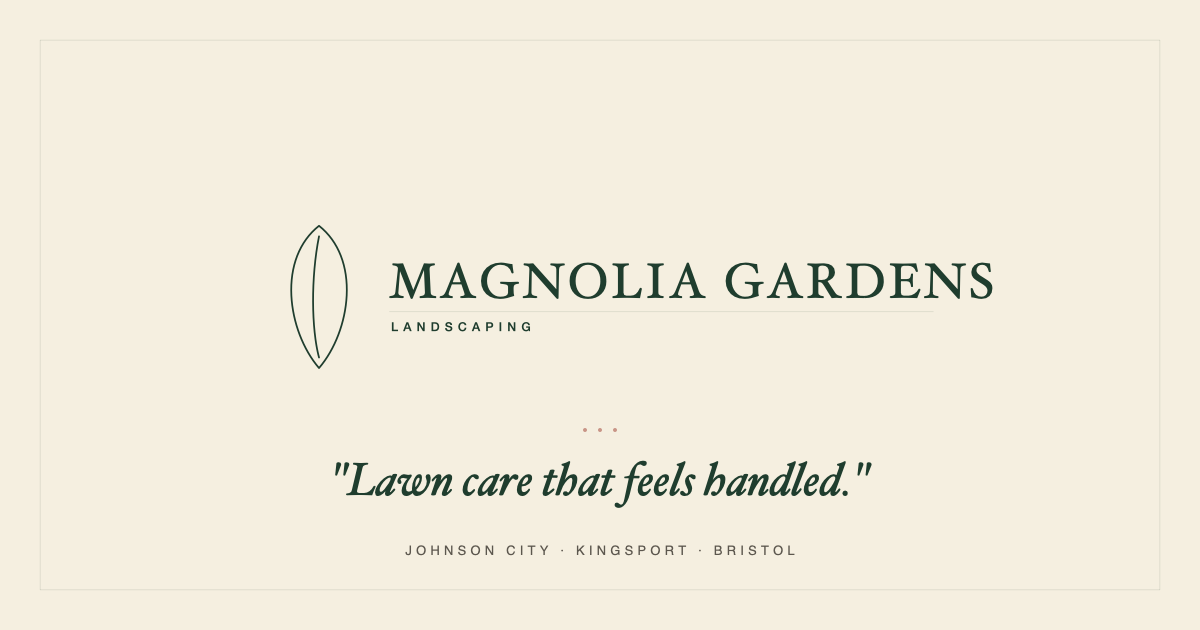
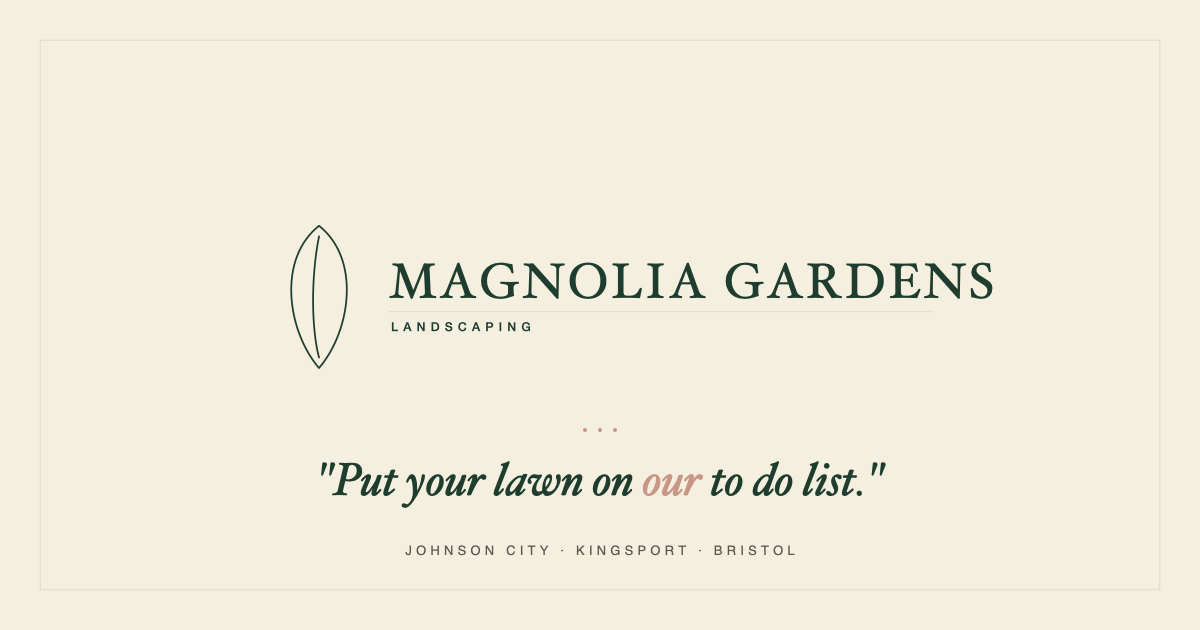
New tagline across site and social card
Replace "Lawn care that feels handled." with "Put your lawn on our to do list."
in all four text instances and regenerate the OG card.

- Hero h1: "Put your lawn on <em>our</em> to do list." (em styled by
  existing h1 em rule — italic, moss-700)
- og:title, twitter:title meta tags: plain text version
- JSON-LD slogan field: plain text version
- og-image.png regenerated 1200x630; tagline italic moss with "our" in
  magnolia-700 (#C99587), the brand's designated emphasis color

Changed region(s): [[0.2467, 0.7238, 0.74, 0.8143]]

diff --git a/index.html b/index.html
@@ -14,7 +14,7 @@
   <!-- ── Open Graph (Facebook, iMessage, LinkedIn, Slack, most chat apps) -->
   <meta property="og:type" content="website" />
   <meta property="og:site_name" content="Magnolia Gardens Landscaping" />
-  <meta property="og:title" content="Magnolia Gardens Landscaping — Lawn care that feels handled." />
+  <meta property="og:title" content="Magnolia Gardens Landscaping — Put your lawn on our to do list." />
   <meta property="og:description" content="Reliable mowing, trimming, edging, cleanup, and seasonal property care in Kingsport and the Tri-Cities, TN. Text photos to 423-390-9954 for a clear quote." />
   <meta property="og:url" content="https://magnoliagardenslandscaping.com/" />
   <meta property="og:image" content="https://magnoliagardenslandscaping.com/og-image.png" />
@@ -25,7 +25,7 @@
 
   <!-- ── Twitter / X large card ──────────────────────────────── -->
   <meta name="twitter:card" content="summary_large_image" />
-  <meta name="twitter:title" content="Magnolia Gardens Landscaping — Lawn care that feels handled." />
+  <meta name="twitter:title" content="Magnolia Gardens Landscaping — Put your lawn on our to do list." />
   <meta name="twitter:description" content="Mowing, trimming, edging, cleanup, and seasonal property care in Kingsport and the Tri-Cities, TN." />
   <meta name="twitter:image" content="https://magnoliagardenslandscaping.com/og-image.png" />
   <meta name="twitter:image:alt" content="Magnolia Gardens Landscaping — lawn care in Kingsport and the Tri-Cities, TN." />
@@ -42,7 +42,7 @@
     "legalName": "Magnolia Gardens Landscaping, LLC",
     "alternateName": "Magnolia Gardens",
     "description": "Owner-operated residential lawn care in Kingsport and the Tri-Cities, Tennessee. Mowing, trimming, edging, cleanup, brush and overgrowth control, and seasonal cleanups. Quotes by text, scheduled service, same-standard work every visit.",
-    "slogan": "Lawn care that feels handled.",
+    "slogan": "Put your lawn on our to do list.",
     "url": "https://magnoliagardenslandscaping.com/",
     "telephone": "+1-423-390-9954",
     "email": "seanpr1@gmail.com",
@@ -607,7 +607,7 @@
   <div class="wrap z1">
     <div class="hero-eyebrow">Kingsport · Tri-Cities, TN</div>
 
-    <h1 class="hero-h1">Lawn care that feels handled.</h1>
+    <h1 class="hero-h1">Put your lawn on <em>our</em> to do list.</h1>
 
     <p class="hero-sub">
       Reliable mowing, trimming, edging, cleanup, and seasonal property care for homes
